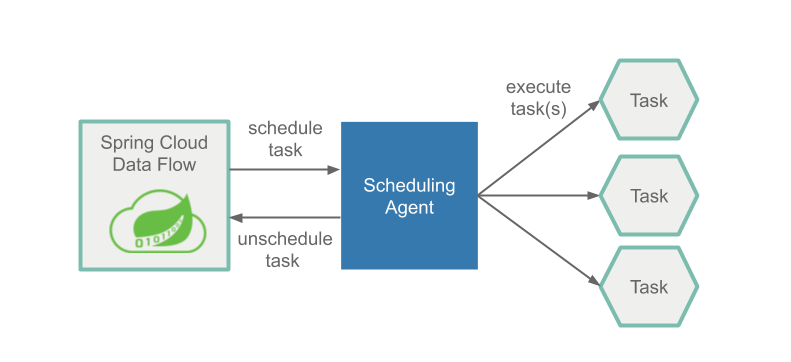
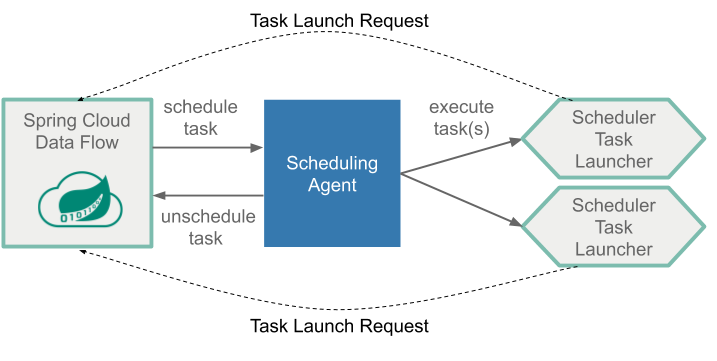
Updated diagrams and some verbage on scheduling to reflect CICD changes
resolves 151

Updated based on code review and rebased

diff --git a/content/documentation/pages/5-feature-guides/2-batch/2-scheduling.md b/content/documentation/pages/5-feature-guides/2-batch/2-scheduling.md
@@ -15,6 +15,9 @@ In this section, we will show you how you can schedule the launch of the batch j
 Spring Cloud Data Flow lets a user schedule the launching of tasks via a cron expression. A schedule can be created through the RESTful API or the Spring Cloud Data Flow UI.
 Spring Cloud Data Flow will schedule the execution of its tasks via a scheduling agent that is available on the cloud platform.
 ![Scheduling Architecture](images/SCDF-scheduling-architecture.png)
+The way that Spring Cloud Data Flow does this is by deploying a SchedulerTaskLauncher application to the platform and then
+the scheduling agent (e.g., CronJob in Kubernetes) is notified to schedule the SchedulerTaskLauncher. When the scheduling agent launches the
+[SchedulerTaskLauncher](https://github.com/spring-cloud/spring-cloud-dataflow/blob/master/spring-cloud-dataflow-scheduler-task-launcher/src/main/java/org/springframework/cloud/dataflow/scheduler/launcher/SchedulerTaskLauncherApplication.java), the SchedulerTaskLauncher will utilize Spring Cloud Data Flow's RESTFul API to launch the task.
 When using the Cloud Foundry platform Spring Cloud Data Flow will use the PCF Scheduler.
 When using Kubernetes, CronJobs will be used.
 
